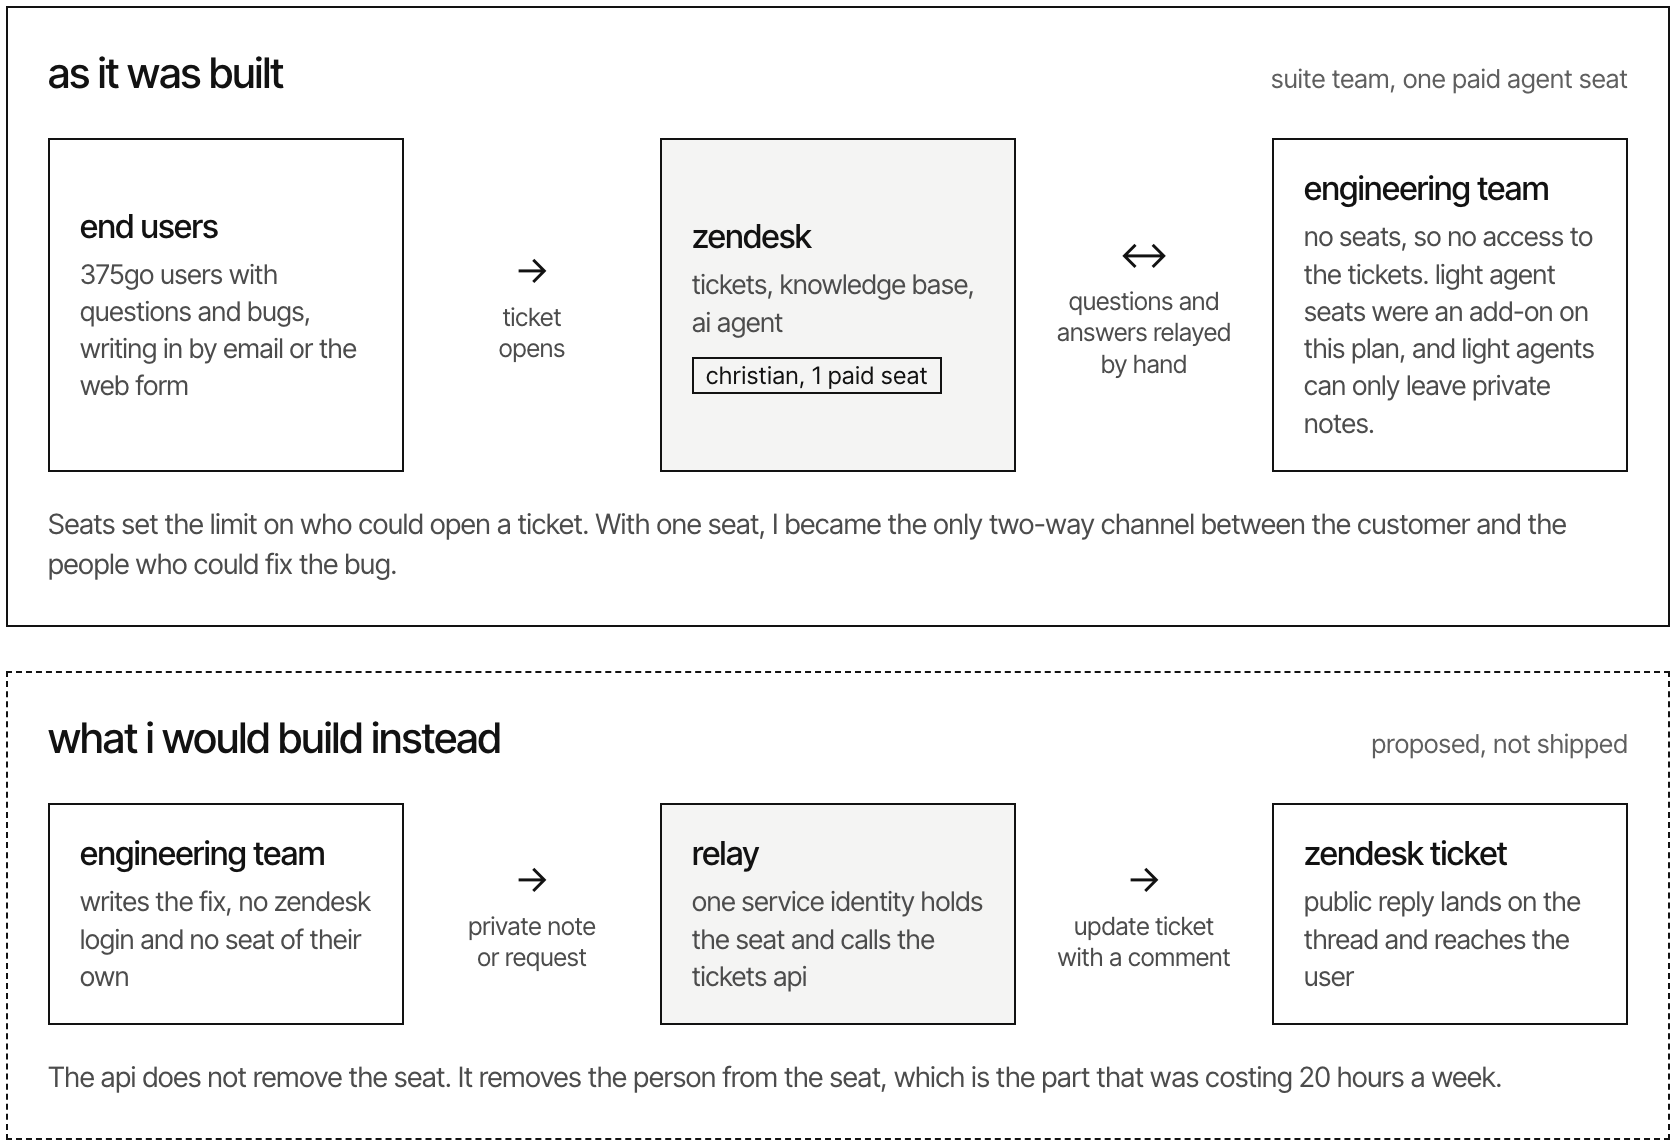
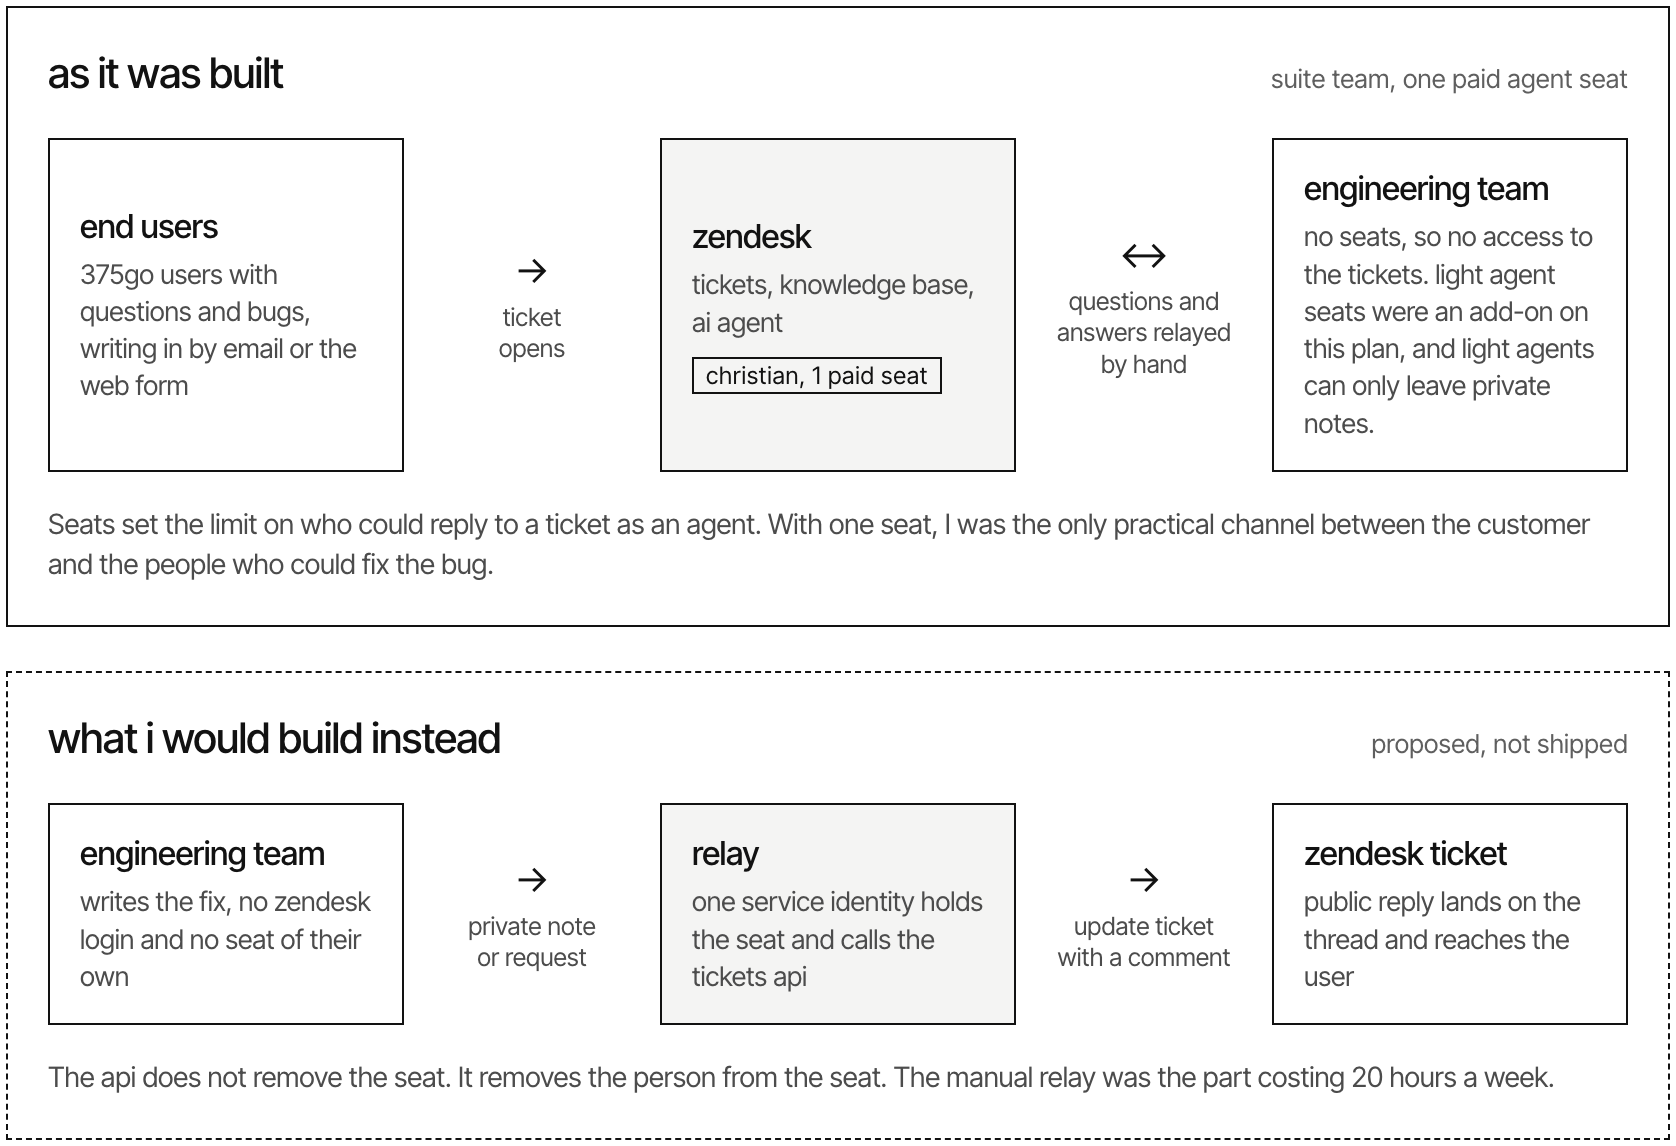
Precision pass: seat wording, API payload, plan names, number provenance
Seats limit agent replies, not ticket opening. API path specifies a public
comment object. Plan names normalised to Suite Team and Suite Growth. Added
a note on where the 1,000 and the hours come from.

Changed region(s): [[0.031, 0.4276, 0.9308, 0.5192], [0.5274, 0.9162, 0.9308, 0.9468]]

diff --git a/zendesk-pipeline.html b/zendesk-pipeline.html
@@ -64,6 +64,7 @@
   }
   .stat .n{font-size:clamp(1.5rem,4.6vw,2rem);font-weight:500;letter-spacing:-.04em;line-height:1}
   .stat .l{margin-top:.5em;font-size:.82rem;line-height:1.4;color:var(--ink-soft);letter-spacing:-.005em}
+  .count-note{font-size:.82rem;line-height:1.45;color:var(--ink-soft);margin:.2em 0 1.6em;max-width:612px;letter-spacing:-.005em}
   @media (max-width:620px){.stats{grid-template-columns:1fr;gap:16px}}
 
   .callout{border-left:2px solid var(--ink);padding:.1em 0 .1em 1em;margin:0 0 1.2em;max-width:612px}
@@ -146,25 +147,26 @@
   <div class="stats">
     <div class="stat"><div class="n">1,000+</div><div class="l">common issues auto-resolved in the first six months</div></div>
     <div class="stat"><div class="n">20 to 25</div><div class="l">hours a week saved on ticket handling</div></div>
-    <div class="stat"><div class="n">250,000+</div><div class="l">375go downloads the pipeline had to cover</div></div>
+    <div class="stat"><div class="n">250,000+</div><div class="l">375go downloads the support pipeline had to keep up with</div></div>
   </div>
+  <p class="count-note">The 1,000 figure and the hours come from my own ticket history and my own week, not from a Zendesk report. Downloads were the public app total at the time.</p>
 
   <div class="prose">
     <h2>what i learned</h2>
     <p>The bottleneck was me, not the automation. Two limits made me the only path between the engineers and the users, and only one of them was money.</p>
-    <p>The money limit was one paid agent seat on Suite Team. Light agent seats, the cheaper tier, were an add-on on that plan. They were a purchase, not a feature gap.</p>
-    <p>The product limit is the part I did not understand well enough. A light agent can read a ticket and leave a private note, and that is the end of their reach. They cannot post a public reply. So with light seats bought, an engineer could write the fix and still not send it.</p>
+    <p>The money limit was one paid agent seat on Suite Team, Zendesk's cheapest plan. Light agent seats, the cheaper tier, were an add-on on that plan. They cost less than full seats, but they were still a purchase.</p>
+    <p>The product limit is the part I did not understand well enough. A light agent can read a ticket and leave a private note, and nothing more. They cannot post a public reply. So with light seats bought, an engineer could write the fix and still not send it.</p>
   </div>
 
   <figure>
     <img src="/img/seats.png" width="1676" height="1146" alt="Top panel: end users open tickets in Zendesk, where christian holds the one paid seat, and questions and answers are relayed by hand to an engineering team with no seats. Bottom panel: a proposed relay, where engineering writes the fix with no seat of their own and one service identity calls the tickets api to post the public reply.">
-    <figcaption>What the seat limit forced, and the relay that removes the person instead of the seat.</figcaption>
+    <figcaption>What the seat limit forced, and the relay that takes the person out of the seat.</figcaption>
   </figure>
 
   <div class="prose">
     <p>The feature built for this already existed, and I did not use it. Side conversations attach an email, Slack or Teams thread to a ticket, and the people on that thread do not need agent seats. It has been in the product for years. It needs Suite Professional or above, and we were on Team. That is the first thing I would ask for.</p>
-    <p>If the plan cannot move, light agent seats plus a small relay come next. Engineering works on the ticket instead of over email, and the relay turns a private note into the public reply.</p>
-    <p>Then the API. Zendesk creates a comment when you update a ticket, and the author defaults to the account that authenticated the call. One service identity holds a seat, calls <code>PUT /api/v2/tickets/{id}</code> with the reply, and the thread updates. Two rules: use a dedicated service account instead of my login, or the audit trail reads as me, and stay inside the rate limit, which is 200 requests a minute on Team and 400 on Growth.</p>
+    <p>If the plan cannot move, light agent seats plus a small relay come next. Engineering works on the ticket, not over email, and the relay turns a private note into the public reply.</p>
+    <p>The API path comes next. Zendesk creates a comment when you update a ticket, and the author defaults to the account that authenticated the call. One service identity holds a seat and calls <code>PUT /api/v2/tickets/{id}</code> with a comment object, <code>public</code> set to true. The thread updates. Two rules: use a dedicated service account instead of my login, or the audit trail reads as me, and stay inside the rate limit, which is 200 requests a minute on Suite Team and 400 on Suite Growth.</p>
     <p>MCP is the newest path. Zendesk runs an MCP server, and Bridge lets an outside agent act inside Zendesk through scoped tools, with a person confirming each change. It is in early access and the pricing is not settled, so I would test it rather than design against it.</p>
   </div>
 

diff --git a/diagrams/seats.html b/diagrams/seats.html
@@ -44,7 +44,7 @@
         <p>no seats, so no access to the tickets. light agent seats were an add-on on this plan, and light agents can only leave private notes.</p>
       </div>
     </div>
-    <p class="note">Seats set the limit on who could open a ticket. With one seat, I became the only two-way channel between the customer and the people who could fix the bug.</p>
+    <p class="note">Seats set the limit on who could reply to a ticket as an agent. With one seat, I was the only practical channel between the customer and the people who could fix the bug.</p>
   </div>
 
   <div class="panel ghost">
@@ -68,6 +68,6 @@
         <p>public reply lands on the thread and reaches the user</p>
       </div>
     </div>
-    <p class="note">The api does not remove the seat. It removes the person from the seat, which is the part that was costing 20 hours a week.</p>
+    <p class="note">The api does not remove the seat. It removes the person from the seat. The manual relay was the part costing 20 hours a week.</p>
   </div>
 </body></html>
